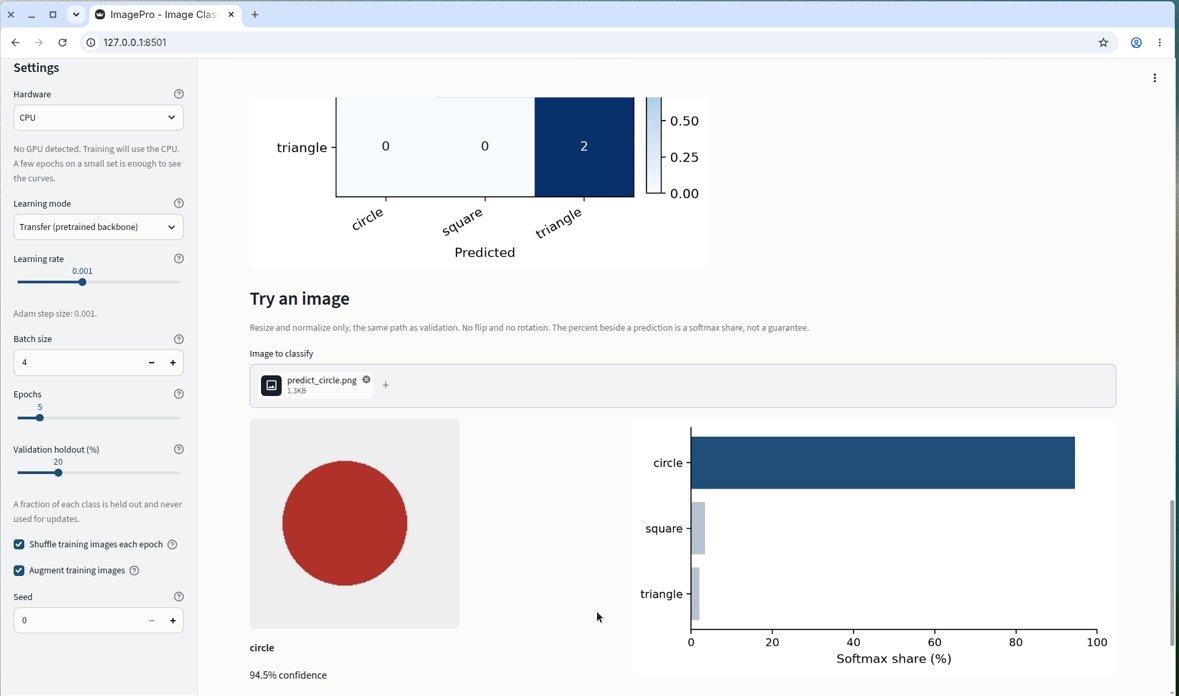
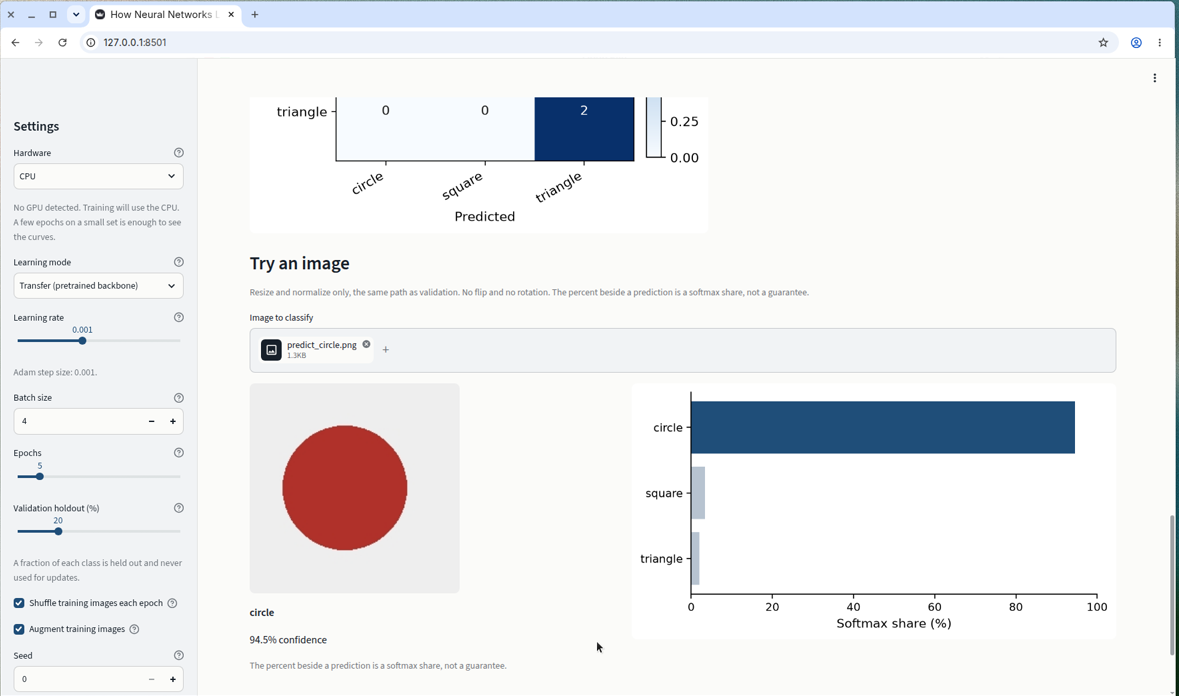
Rename the lab page to its teaching title
The Streamlit page title, heading, and README title are now
"How Neural Networks Learn: An Image Classifier Lab". The screenshots
match that heading. The package name stays imagepro.

diff --git a/imagepro/ui.py b/imagepro/ui.py
@@ -87,16 +87,19 @@ class Artifact:
     details: str
 
 
+APP_TITLE = "How Neural Networks Learn: An Image Classifier Lab"
+
+
 def main() -> None:
-    """Run the ImagePro app. Use ``streamlit run main.py``."""
+    """Run the app. Use ``streamlit run main.py``."""
     st.set_page_config(
-        page_title="ImagePro - Image Classifier",
+        page_title=APP_TITLE,
         layout="wide",
         initial_sidebar_state="expanded",
     )
     _ensure_state()
     settings = _sidebar()
-    st.title("ImagePro - Image Classifier")
+    st.title(APP_TITLE)
     st.caption(
         "Train a ResNet-18 on your own classes and watch training and validation move "
         "together. Transfer mode starts from ImageNet and trains a new final layer. "

diff --git a/tests/test_package.py b/tests/test_package.py
@@ -56,6 +56,7 @@ def test_concepts_cover_the_teaching_goals() -> None:
 
 def test_readme_embeds_committed_screenshots() -> None:
     readme = (ROOT / "README.md").read_text(encoding="utf-8")
+    assert readme.startswith("# How Neural Networks Learn: An Image Classifier Lab\n")
     assert "actions/workflows/ci.yml/badge.svg" in readme
     images = re.findall(r"!\[[^\]]*\]\((docs/[^)]+)\)", readme)
     assert len(images) >= 5
@@ -72,4 +73,4 @@ def test_app_script_boots() -> None:
     app.run()
     assert not app.exception
     titles = [title.value for title in app.title]
-    assert any("ImagePro" in title for title in titles)
+    assert "How Neural Networks Learn: An Image Classifier Lab" in titles

diff --git a/README.md b/README.md
@@ -1,8 +1,8 @@
-# ImagePro
+# How Neural Networks Learn: An Image Classifier Lab
 
 [![CI](https://github.com/jmamodeo/classifier-teaching-tool/actions/workflows/ci.yml/badge.svg)](https://github.com/jmamodeo/classifier-teaching-tool/actions/workflows/ci.yml)
 
-ImagePro is a small Streamlit app for watching an image classifier learn. Give it a few labeled images, or use the built-in circles, squares, and triangles, then train a ResNet-18 and read the charts.
+A small Streamlit lab for watching an image classifier learn. Give it a few labeled images, or use the built-in circles, squares, and triangles, then train a ResNet-18 and read the charts.
 
 Two modes share the images, the loss, and the learning rate. **Transfer** starts from ImageNet weights and trains a new final layer while the backbone stays frozen. **Novel** starts from random weights and trains every layer. The parameter cards, the curves, and the short explanations are there so that difference is visible.
 
